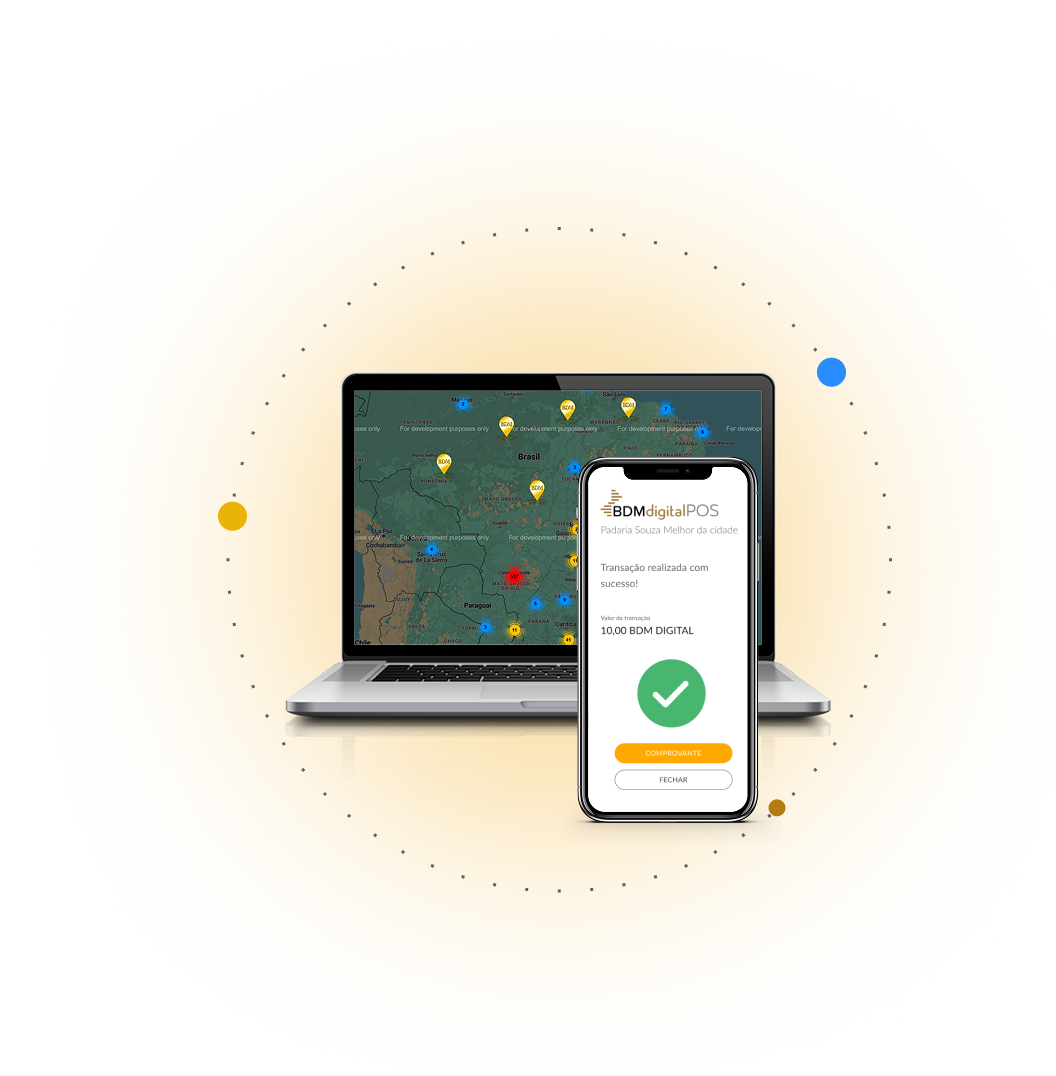
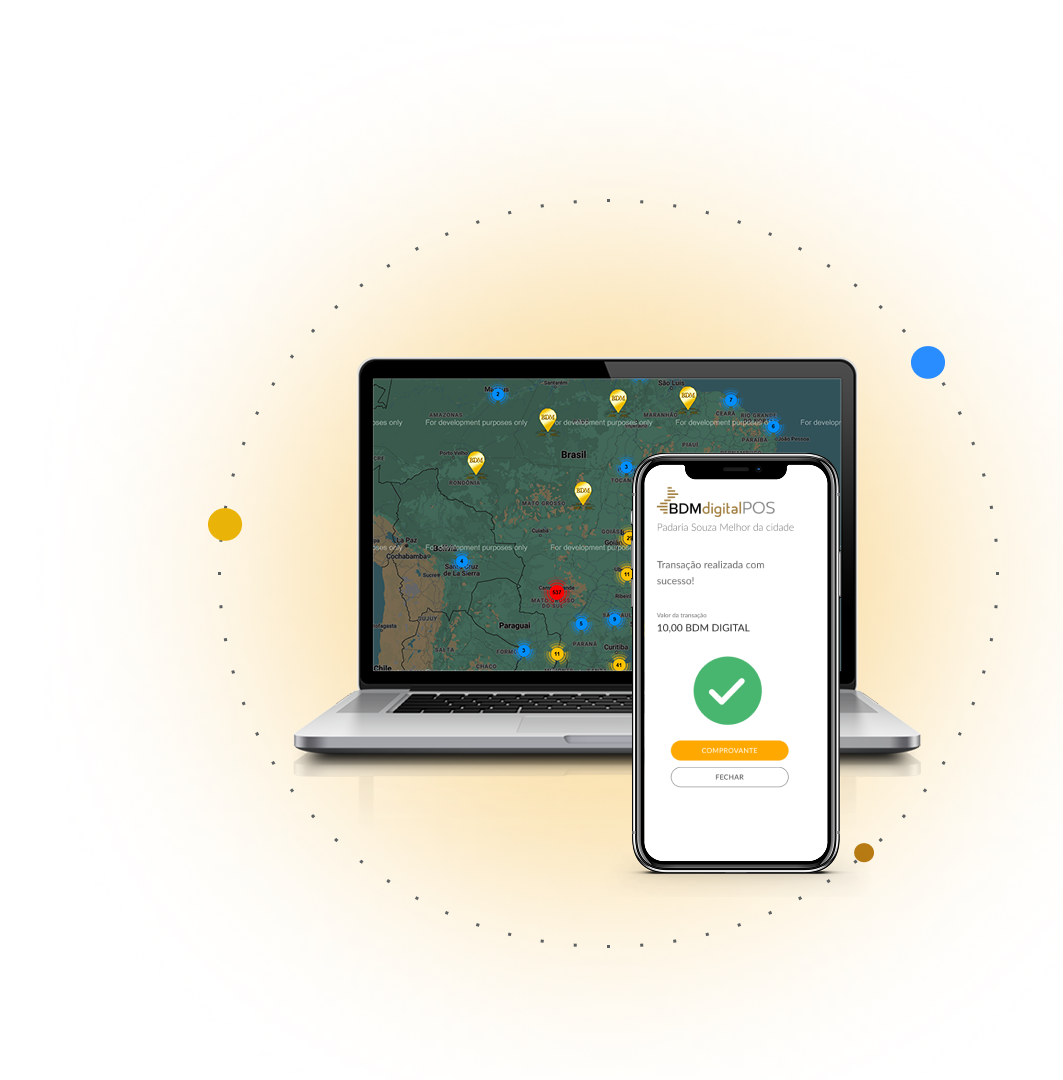
feat(assets): Add background image to TechnologyHeroSection

Changed region(s): [[0.25, 0.3067, 0.9062, 0.8281], [0.8438, 0.3067, 0.9062, 0.368], [0.1875, 0.46, 0.25, 0.5214]]

diff --git a/src/components/TransformativeTechSection/styles.ts b/src/components/TransformativeTechSection/styles.ts
@@ -4,23 +4,12 @@ import { colors } from '../../assets/scss/colors';
 
 export const SectionWrapper = styled.section`
 
-  background-image: url('/img/background-dourado.png');
+  background-image: url('/img/background-dourado2.png');
   background-color: #111;
   background-size: cover;
   background-position: center;
   padding: 8rem 0;
   position: relative;
-  
-   // Overlay escuro opcional para legibilidade
-  &::before {
-    content: '';
-    position: absolute;
-    top: 0;
-    left: 0;
-    right: 0;
-    bottom: 0;
-    background-color: rgba(0, 0, 0, 0.6);
-  }
 `;
 
 export const LinkButton = styled.a`
